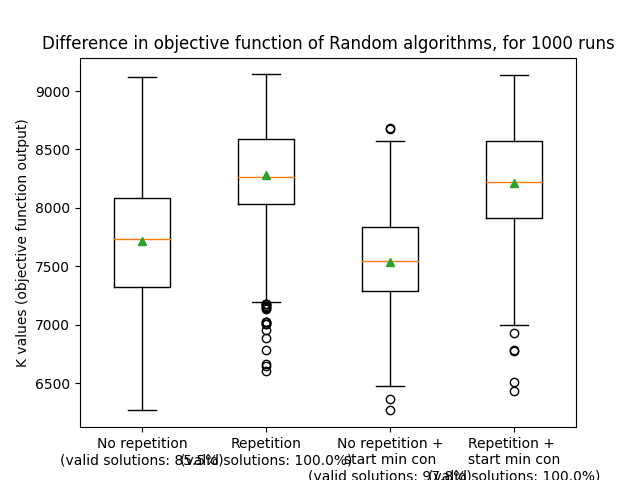
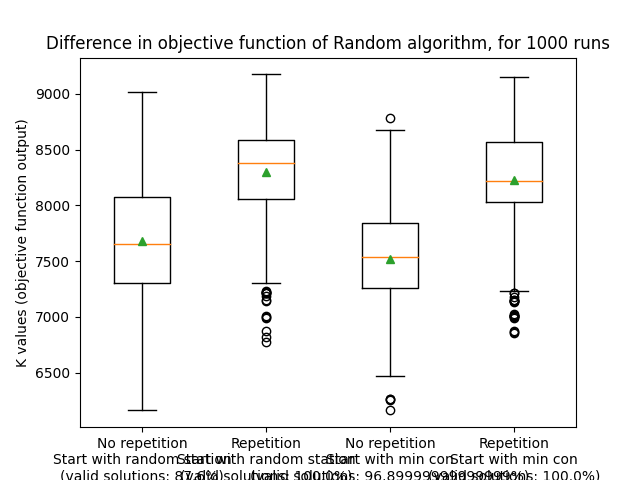
changing map of the netherlands representation

diff --git a/program/boxplot.py b/program/boxplot.py
@@ -26,17 +26,15 @@ def boxplot(iteration, which_regions = 'holland', start = 'random'):
         # k = run('greedy_time', which_regions, start)
         # k1 = run('greedy_conn', which_regions, start)
         # k2 = run('greedy_time', which_regions, start = 'min_con')
-        # k3 = run('greedy_conn', which_regions, start = 'min_con')
+        k1 = run('greedy_conn', which_regions, start = 'min_con')
 
         # k = run('connect', which_regions, start)
         # k1 = run('connect_with', which_regions, start)
         # k2 = run('connect', which_regions, start = 'min_con')
-        # k3 = run('connect_with', which_regions, start = 'min_con')
+        k = run('connect_with', which_regions, start = 'min_con')
 
-        k = run('greedy_time', which_regions, start)
-        k1 = run('greedy_conn', which_regions, start)
-        k2 = run('greedy_time', which_regions, start = 'min_con')
-        k3 = run('greedy_conn', which_regions, start = 'min_con')
+        k2 = run('hillclimber', which_regions, start)
+        # k1 = run('hillclimber', which_regions, start = 'min_con')
 
         # check if the output of the run is viable then append to initialised list
         if k != False:
@@ -52,30 +50,30 @@ def boxplot(iteration, which_regions = 'holland', start = 'random'):
             solutions2.append(k2)
             succes2 += 1
         
-        # check if the output of the run is viable then append to initialised list
-        if k3 != False:
-            solutions3.append(k3)
-            succes3 += 1
+        # # check if the output of the run is viable then append to initialised list
+        # if k3 != False:
+        #     solutions3.append(k3)
+        #     succes3 += 1
         
     # calculate the percentage of viable outputted solutions
     percentage_succes = (succes/iteration) * 100
     percentage_succes1 = (succes1/iteration) * 100
     percentage_succes2 = (succes2/iteration) * 100
-    percentage_succes3 = (succes3/iteration) * 100
+    # percentage_succes3 = (succes3/iteration) * 100
 
-    data = [solutions, solutions1]
+    data = [solutions, solutions1, solutions2]
 
     # Creating plot
     plt.boxplot(data, showmeans=True)
 
     # set title and axis descriptions
-    plt.title(f"Difference in objective function of Random vs Greedy algorithm, for {iteration} runs")
+    plt.title(f"Difference in objective function of Random, Greedy and Hillclimber algorithms, for {iteration} runs")
     plt.xlabel("Type algorithm")
     plt.ylabel("K values (objective function output)")
-    plt.xticks([1, 2], [f'Random algorithm\nRepetition +\nstart min con(valid solutions: {percentage_succes}%)', f'Greedy algorithm\nConnections +\nstart min con\n(valid solutions: {percentage_succes1}%)'])
+    plt.xticks([1, 2, 3], [f'Random +\nStart with min con\n(valid solutions: {percentage_succes}%)', f'Greedy +\nStart with min con\n(valid solutions: {percentage_succes1}%)', f'Hillclimber +\nStart with random station\n(valid solutions: {percentage_succes2}%)'])
 
     # save and show the histogram
-    plt.savefig('output/boxplot_random_vs_greedy_nl.png')
+    plt.savefig('output/boxplot_difference_nl.png')
     plt.show()
 
 def run(algorithm, which_regions = 'holland', start = 'random'):

diff --git a/program/visualisation.py b/program/visualisation.py
@@ -20,17 +20,17 @@ def visualize(network, trains, which_region = 'holland'):
     # load network_graph
     stations = network.stations.values()
 
-    img = plt.imread("data/map.png")
+    img = plt.imread("data/map_nl.png")
     fix, ax = plt.subplots()
-    ax.imshow(img, extent=[3.1, 7.5, 50.6, 53.7], aspect=1.7)
+    ax.imshow(img, extent=[3.1, 7.4, 50.62, 53.73], aspect=1.7)
 
-    # loading file of boarders of Holland
-    df_places = gpd.read_file(geo_json_file)
+    # # loading file of boarders of Holland
+    # df_places = gpd.read_file(geo_json_file)
 
-    # looping through regions in the data file and plotting them in a matplotlib graph
-    for polygon in df_places['geometry']:
-        x,y = polygon.exterior.xy
-        plt.plot(x,y, color = 'grey')
+    # # looping through regions in the data file and plotting them in a matplotlib graph
+    # for polygon in df_places['geometry']:
+    #     x,y = polygon.exterior.xy
+    #     plt.plot(x,y, color = 'grey')
 
     # PLOT ALL CONNECTIONS   
     # loop through all stations in the network_graph
@@ -50,7 +50,7 @@ def visualize(network, trains, which_region = 'holland'):
             y_line = [station.coord[1], other.coord[1]]
 
             # plot connections between all stations
-            plt.plot(x_line, y_line, color = 'black')
+            plt.plot(x_line, y_line, color = 'black', linestyle='--', dashes=(5, 2))
     
     #hide axes
     ax = plt.gca()
@@ -75,7 +75,7 @@ def visualize(network, trains, which_region = 'holland'):
 
     # unzip the tuples and plot them
     x,y = zip(*coords)
-    plt.scatter(x, y)
+    plt.scatter(x, y, zorder=10)
         
     # # add names of the stations to the points
     # for index, label in enumerate(names):

diff --git a/map.py b/map.py
@@ -2,18 +2,16 @@ import matplotlib.pyplot as plt
 import geopandas as gpd
 import contextily as cx
 
-df = gpd.read_file('data/nl_regions.geojson')
+df = gpd.read_file('data/holland_regions.geojson')
 
 df_wm = df.to_crs(epsg=3857)
-ax = df_wm.plot(figsize=(10, 10), alpha=0.5, edgecolor='k')
+ax = df_wm.plot(figsize=(10, 10), alpha=0.3, edgecolor='k')
 cx.add_basemap(ax)
 
-# # loading file of boarders of Holland
-# df_places = gpd.read_file('data/holland_regions.geojson')
+ax = plt.gca()
+ax.get_yaxis().set_visible(False)
+ax.get_xaxis().set_visible(False)
 
-# # looping through regions in the data file and plotting them in a matplotlib graph
-# for polygon in df_places['geometry']:
-#     x,y = polygon.exterior.xy
-#     plt.plot(x,y)
+plt.savefig('data/map_1.png')
 
 plt.show()

diff --git a/main.py b/main.py
@@ -9,15 +9,15 @@ from program.algorithm import run
 # create a network and run the algorithm
 # you can fill in 'nl' if you want to calculate trajectory for the whole netherlands
 # you can fill in 'min_con' if you want to start the trajectories at stations with minimal connections
-data_tuple = run()
+data_tuple = run('nl')
 
 # save data from the run
 n = data_tuple[0]
 trains = data_tuple[1]
 
 # visualize the data
-visualize(n, trains)
+visualize(n, trains, 'nl')
 
 # hist(1000)
 
-# boxplot(1000, 'nl')
+# boxplot(100, 'nl')
